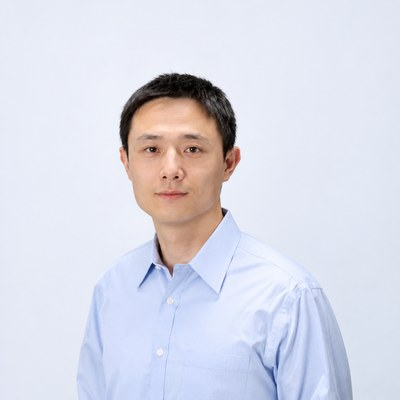
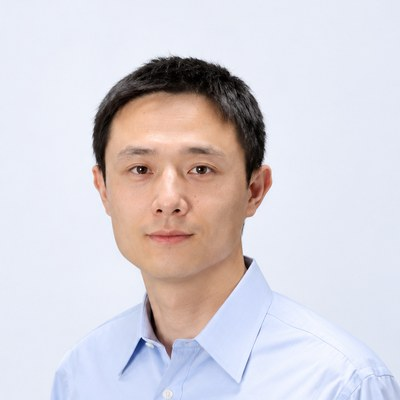
Add a Panelists section with Chengxiang Zhai and Anbang Xu
The section sits under Keynote Speakers and reuses its card layout.
Zhai's card reuses his organizer photo and link; Anbang Xu's photo is
recropped so his head fills more of the circle. Both are listed under
the Agenda in Continual Learning panel in the schedule.

diff --git a/index.html b/index.html
@@ -223,6 +223,7 @@
                             <td class="event-cell">Panel: Agenda in Continual Learning
                                 <span class="note">Conceptual Frameworks, Benchmarks, Open Source, Data Sharing, Security &amp; Governance</span>
                                 <ul class="paper-list">
+                                    <li><a href="https://czhai.cs.illinois.edu/" target="_blank">Chengxiang Zhai</a>, Professor of Computer Science, University of Illinois Urbana-Champaign</li>
                                     <li><a href="https://www.linkedin.com/in/anbangxu/" target="_blank">Anbang Xu</a>, Director of AI, NVIDIA</li>
                                 </ul>
                             </td>
@@ -459,6 +460,35 @@
                         </div>
                     </a>
                     <h3><a href="https://research.nvidia.com/person/rama-akkiraju" target="_blank">Rama Akkiraju</a></h3>
+                    <p class="speaker-title">NVIDIA</p>
+                </div>
+            </div>
+        </div>
+    </section>
+
+        <!-- Panelists Section -->
+        <section id="panelists" class="speakers">
+            <div class="container">
+            <h2>Panelists</h2>
+            <div class="speakers-grid">
+                <div class="speaker-card">
+                    <a href="https://czhai.cs.illinois.edu/" target="_blank" class="speaker-image-link">
+                        <div class="speaker-image">
+                            <img src="images/organizers/chengxiang-zhai.png" alt="Chengxiang Zhai" class="speaker-photo">
+                            <div class="placeholder-image" style="display:none;">CZ</div>
+                        </div>
+                    </a>
+                    <h3><a href="https://czhai.cs.illinois.edu/" target="_blank">Chengxiang Zhai</a></h3>
+                    <p class="speaker-title">University of Illinois Urbana-Champaign</p>
+                </div>
+                <div class="speaker-card">
+                    <a href="https://www.linkedin.com/in/anbangxu/" target="_blank" class="speaker-image-link">
+                        <div class="speaker-image">
+                            <img src="images/speakers/anbang-xu.jpg" alt="Anbang Xu" class="speaker-photo">
+                            <div class="placeholder-image" style="display:none;">AX</div>
+                        </div>
+                    </a>
+                    <h3><a href="https://www.linkedin.com/in/anbangxu/" target="_blank">Anbang Xu</a></h3>
                     <p class="speaker-title">NVIDIA</p>
                 </div>
             </div>
